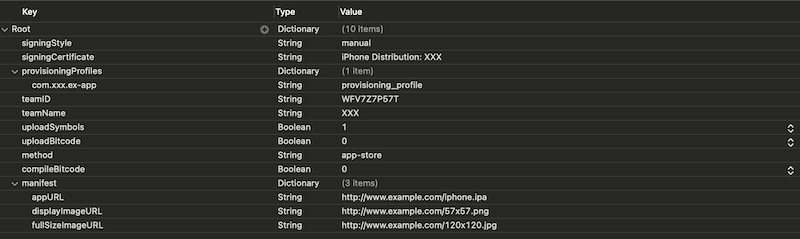
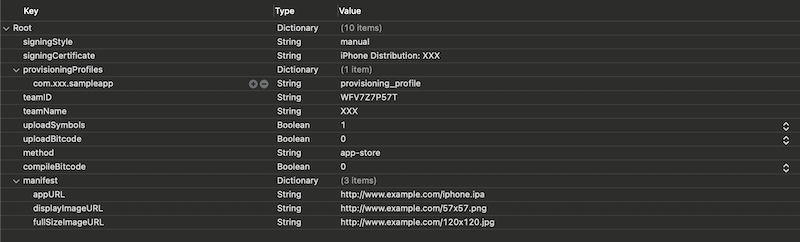
update

Changed region(s): [[0.0, 0.0, 1.0, 0.9665], [0.9688, 0.4979, 1.0, 0.6151], [0.9688, 0.6736, 1.0, 0.7322]]

diff --git a/_posts/2021-06-23-[WWDC21] Cloud Signing.md b/_posts/2021-06-23-[WWDC21] Cloud Signing.md
@@ -4,7 +4,7 @@ excerpt: "[WWDC21] Distribute apps in Xcode with cloud signing"
 description: "Xcoude build with cloud signing"
 modified: 2021-06-23
 categories: "WWDC21"
-tags: [WWDC21, Xcode, Cloud Signing, Xcode Build]
+tags: [WWDC21, Xcode, Xcode13, Cloud Signing, Xcode Build]
 
 header:
   teaser: /assets/images/teaser/wwdc21-teaser.jpg
@@ -12,35 +12,35 @@ header:
 
 # Archiving
 ```shell
-$ xcodebuild -project $WORKSPACE/exapp.xcodeproj \
-  -scheme exapp-scheme \
-  clean archive -archivePath ~/Documents/exapp/exapp.xcarchive
+$ xcodebuild -project $WORKSPACE/sampleapp.xcodeproj \
+  -scheme sampleapp-scheme \
+  clean archive -archivePath ~/Documents/sampleapp/sampleapp.xcarchive
 ```
 
 # Exporting
 ## Export iPA file
 
-- exapp_appstore_upload.plist file
+- sampleapp_appstore_upload.plist file
 ![export_plist](/assets/images/post/wwdc21/cloudsigning/export_plist.png)
 
-- Export exapp.ipa
+- Export sampleapp.ipa
 ```shell
 $ xcodebuild -exportArchive \
-  -archivePath ~/Documents/exapp/exapp.xcarchive \
-  -exportOptionsPlist ~/Documents/exapp/exapp_appstore_upload.plist \
-  -exportPath ~/Documents/exapp/exapp.ipa
+  -archivePath ~/Documents/sampleapp/sampleapp.xcarchive \
+  -exportOptionsPlist ~/Documents/sampleapp/sampleapp_appstore_upload.plist \
+  -exportPath ~/Documents/sampleapp/sampleapp.ipa
 ```
 
 ## Automating Distribution With cloud signing
 
-- exapp_appstore_upload.plist file
+- sampleapp_appstore_upload.plist file
 ![cloudsinging_plist](/assets/images/post/wwdc21/cloudsigning/cloudsinging_plist.png)
 
 - Use App Store Connect Keys
 ```shell
 $ xcodebuild -exportArchive \
-  -archivePath ~/Documents/exapp/exapp.xcarchive \
-  -exportOptionsPlist ~/Documents/exapp/exapp_appstore_upload.plist \
+  -archivePath ~/Documents/sampleapp/sampleapp.xcarchive \
+  -exportOptionsPlist ~/Documents/sampleapp/sampleapp_appstore_upload.plist \
   -authenticationKeyIssuerID xxxxxxxx-xxxx-xxxx-xxxxxxxxxxxx \
   -authenticationKeyID xxxxxxxxxx \
   -authenticationKeyPath ~/PrivateKeys/AuthKey_xxxxxxxxx.p8 \
@@ -50,8 +50,8 @@ $ xcodebuild -exportArchive \
 - If you sign in With Xcode, the only required flag will be '-allowProvisioningUpdates'
 ```shell
 $ xcodebuild -exportArchive \
-  -archivePath ~/Documents/exapp/exapp.xcarchive \
-  -exportOptionsPlist ~/Documents/exapp/exapp_appstore_upload.plist \
+  -archivePath ~/Documents/sampleapp/sampleapp.xcarchive \
+  -exportOptionsPlist ~/Documents/sampleapp/sampleapp_appstore_upload.plist \
   -allowProvisioningUpdates
 ```
 

diff --git a/_posts/2021-06-22-[WWDC21] Xcode Cloud.md b/_posts/2021-06-22-[WWDC21] Xcode Cloud.md
@@ -4,7 +4,7 @@ excerpt: "[WWDC21] Xcode Cloud"
 description: "[WWDC21] Xcode Cloud"
 modified: 2021-06-22
 categories: "WWDC21"
-tags: [WWDC21, Xcode, Xcode Cloud]
+tags: [WWDC21, Xcode, Xcode13, Xcode Cloud]
 
 header:
   teaser: /assets/images/teaser/wwdc21-teaser.jpg
